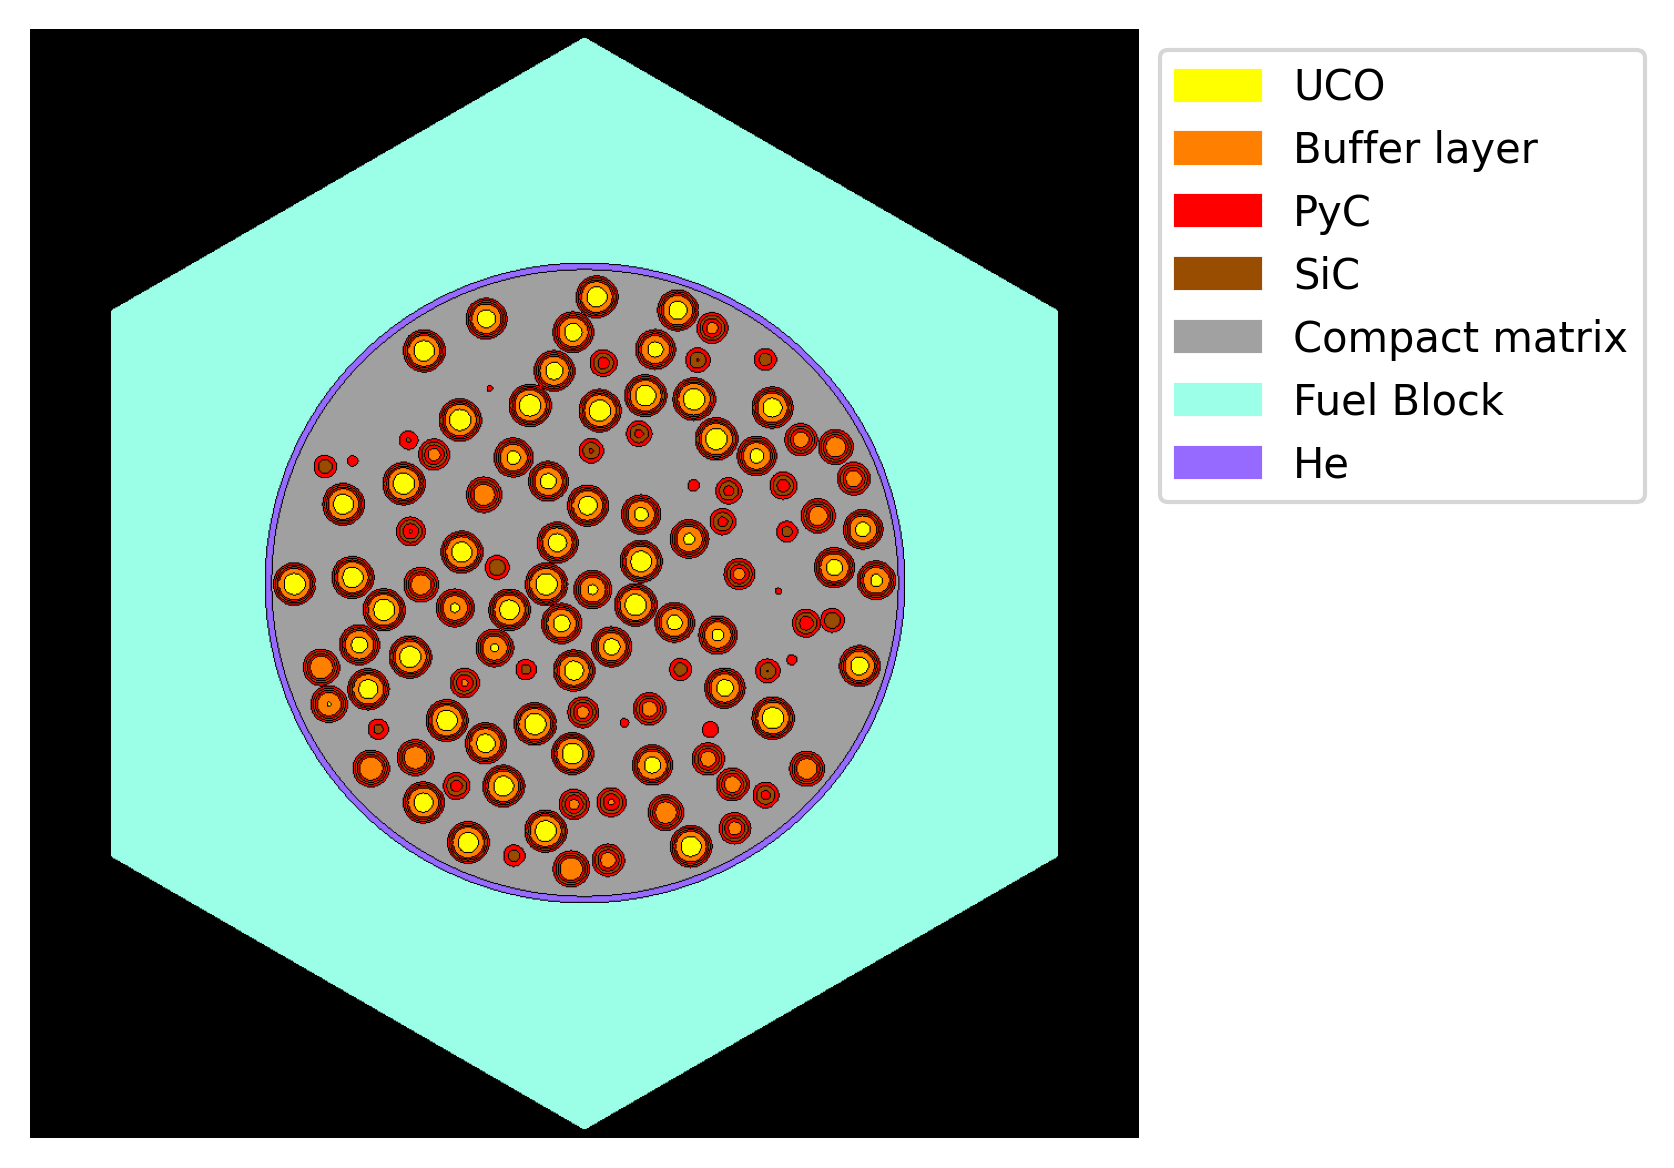
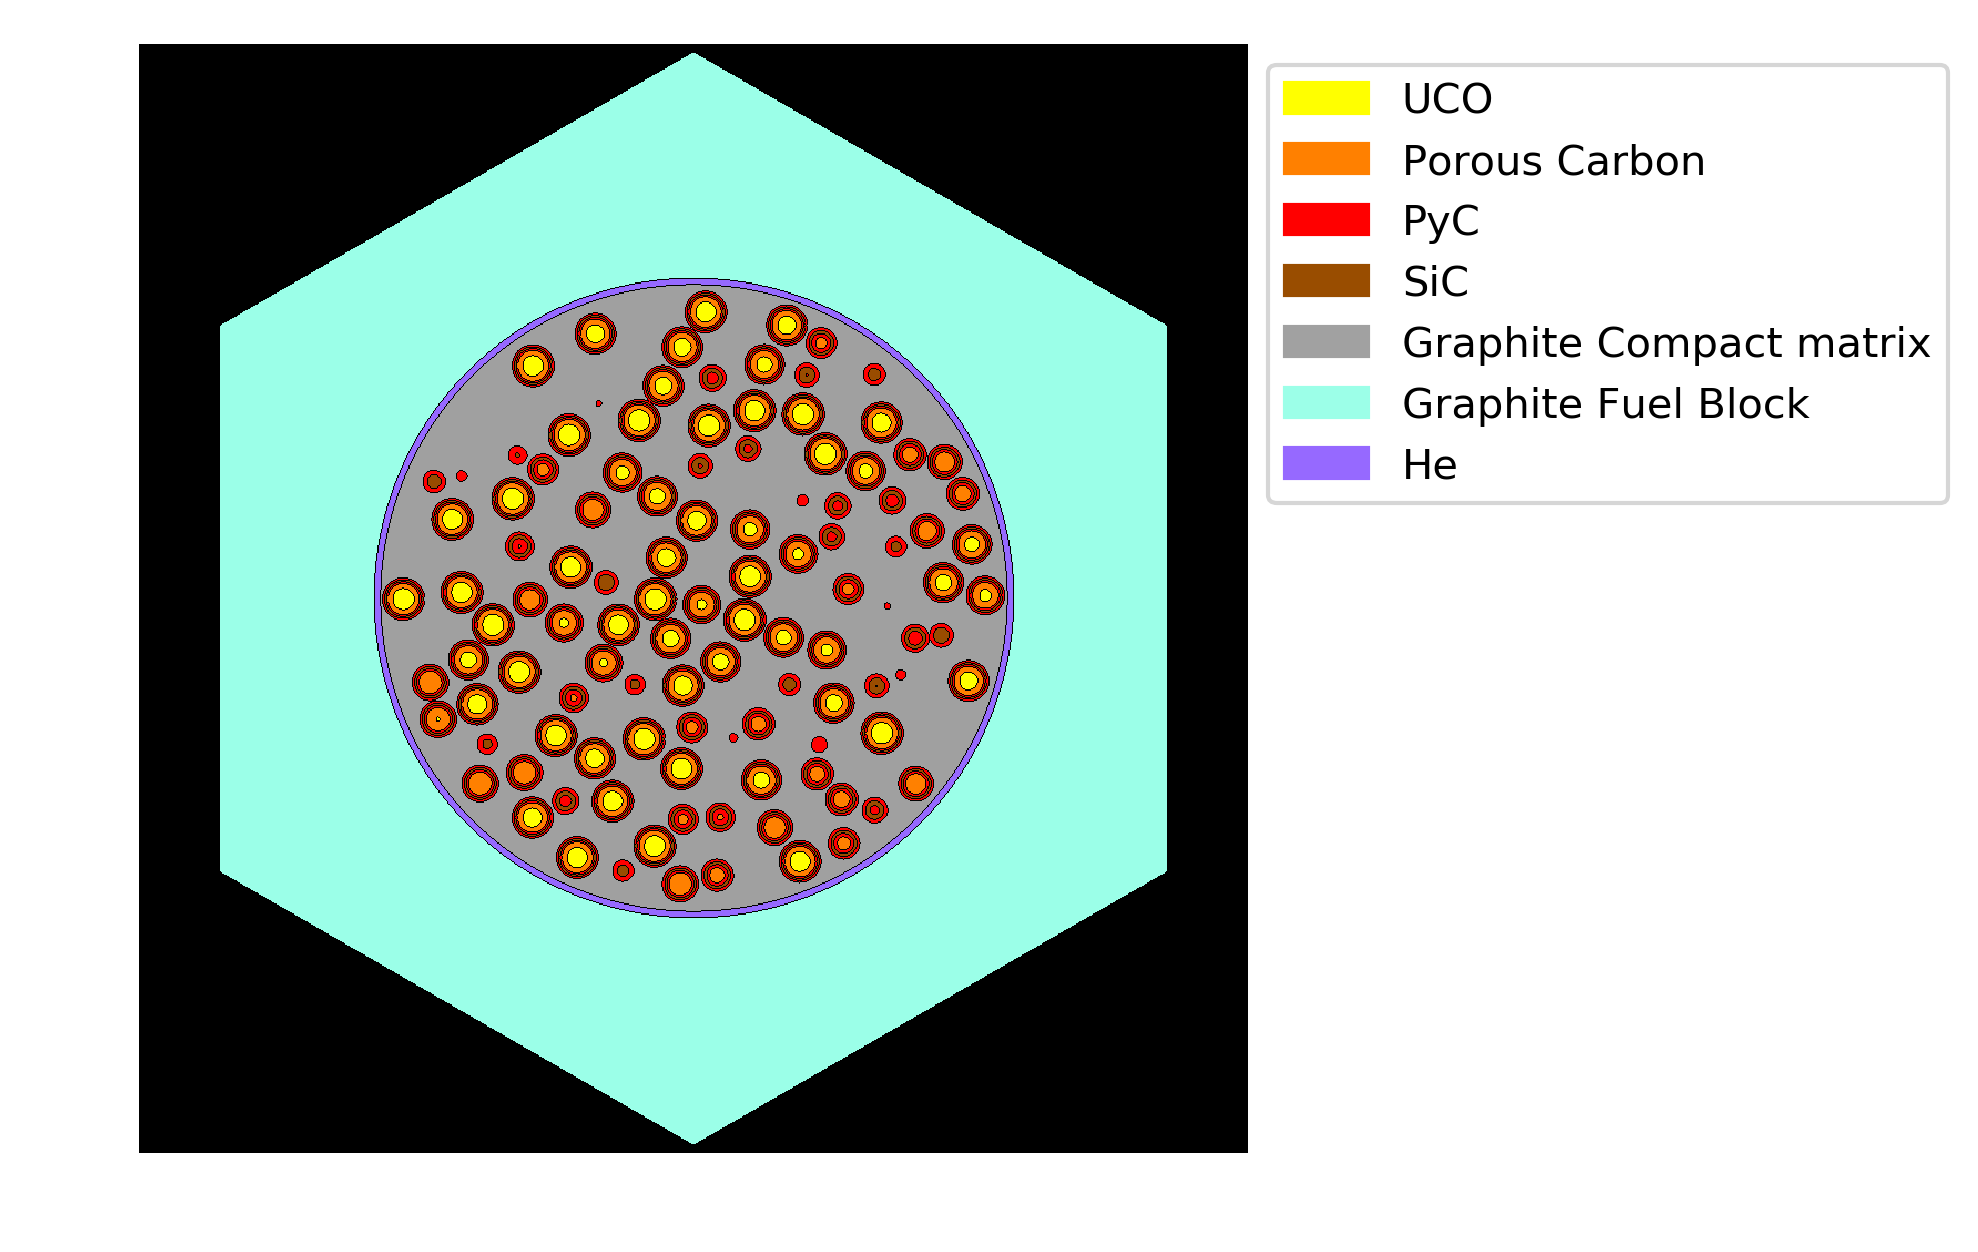
changes in cell names, made them more readable

diff --git a/mhtgr.tex b/mhtgr.tex
@@ -62,7 +62,7 @@ fill=blue!30]
 
 Table \ref{tab:compact} specifies details of the TRISO particle and fuel compact designs of the MHTGR-350.
 
-	\begin{table}
+	\begin{table}[htbp!]
 	\centering
 	    \caption{TRISO and Fuel Compact Characteristics \cite{oecd_nea_benchmark_2017}.}
 	    \label{tab:compact}
@@ -94,7 +94,7 @@ Table \ref{tab:compact} specifies details of the TRISO particle and fuel compact
 
 \section{Fuel Assembly}
 
-	\begin{table}[H]
+	\begin{table}[htbp!]
 		\centering
 	    \caption{MHTGR350 standard fuel element characteristics.}
 	    \label{tab:scharacteristics}
@@ -117,7 +117,7 @@ Table \ref{tab:compact} specifies details of the TRISO particle and fuel compact
 		\end{tabular}
 	\end{table}
 
-	\begin{table}[H]
+	\begin{table}[htbp!]
 		\centering
 	    \caption{MHTGR350 RSC fuel element characteristics.}
 	    \label{tab:rcharacteristics}

diff --git a/auxiliary.py b/auxiliary.py
@@ -38,14 +38,15 @@ def standard():
     fname = get_sample_data('%s/standard-fuel_geom1.png' % (cwd))
     im = plt.imread(fname)
     plt.imshow(im)
-    plt.legend(handles=[matrix, block, helium])
+    plt.legend(handles=[matrix, block, helium],
+               loc="upper right", bbox_to_anchor=(1., 0.0), fancybox=True)
 
     plt.axis('off')
     plt.savefig("standard", dpi=300, bbox_inches="tight")
 
 
 def main():
-    compact()
+    # compact()
     standard()
 
 
